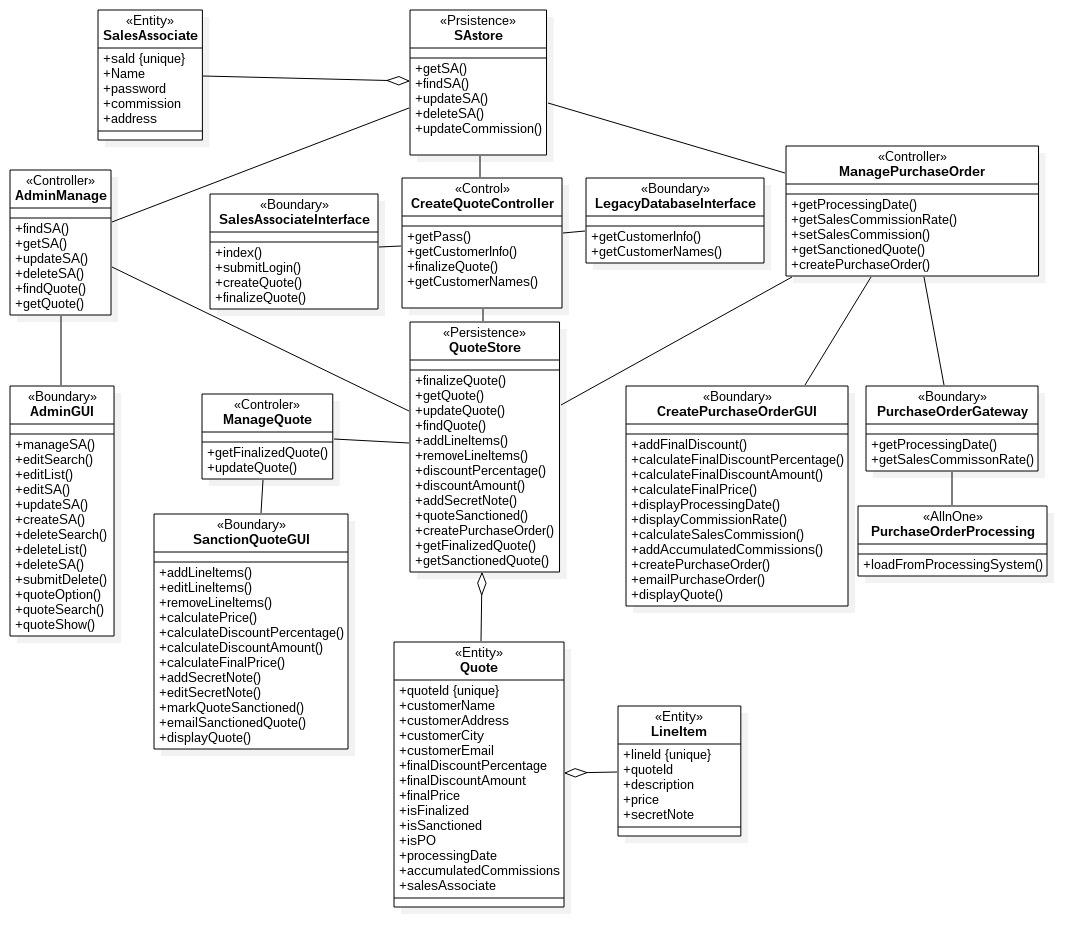
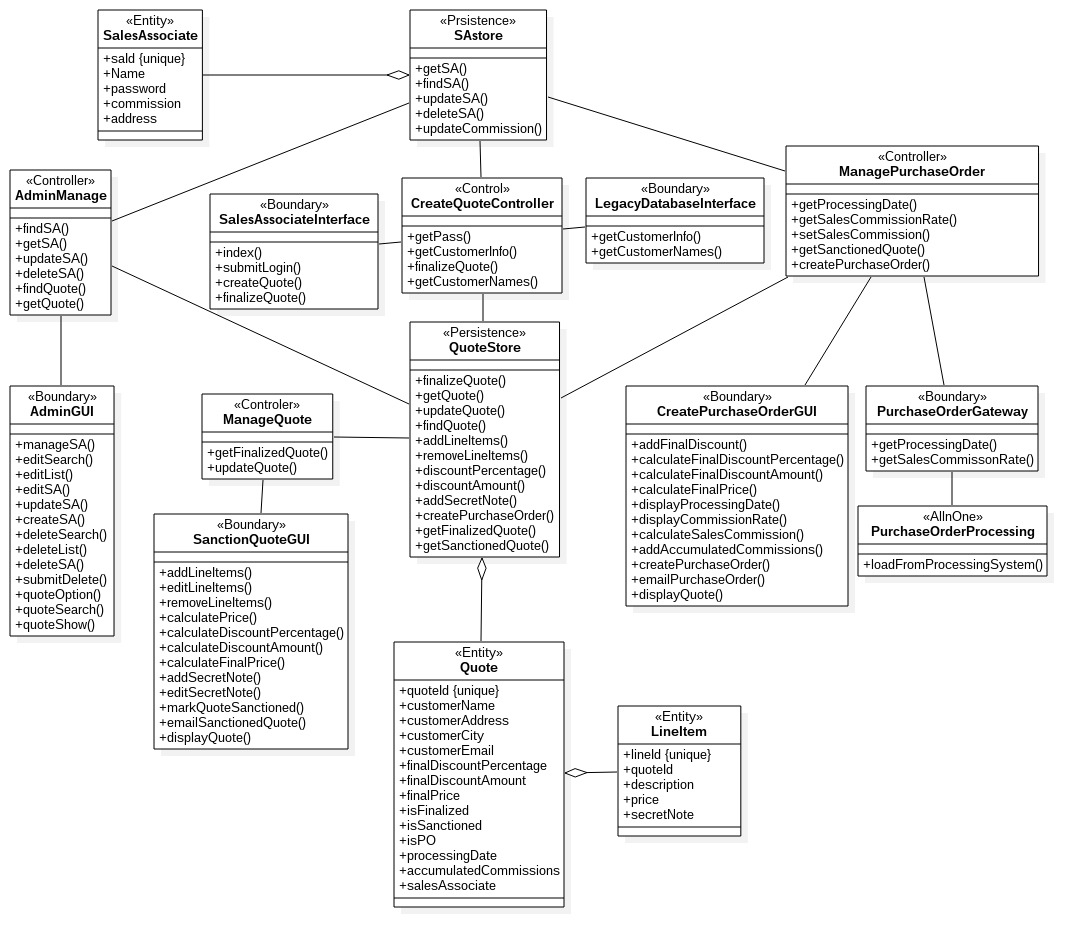
MM's changes

diff --git a/Classes Diagrams/html-docs/contents/element_index.html b/Classes Diagrams/html-docs/contents/element_index.html
@@ -275,7 +275,7 @@
             <section>
                 
                 
-                <h3>UMLOperation (80)</h3>
+                <h3>UMLOperation (79)</h3>
                 <div>
                 
                     <div><a href='9b1eaf3f0c47060a6a05c59b04b4233f.html'><span class='node-icon _icon-UMLOperation'></span>addAccumulatedCommissions</a></div>
@@ -409,8 +409,6 @@
                     <div><a href='3aebdd389ea15dfe6df64cd890e1a742.html'><span class='node-icon _icon-UMLOperation'></span>markQuoteSanctioned</a></div>
                 
                     <div><a href='5ca715880df97b85c9c85cc9964f2cb5.html'><span class='node-icon _icon-UMLOperation'></span>quoteOption</a></div>
-                
-                    <div><a href='8a18c09d3f0b40754075e56bff89356f.html'><span class='node-icon _icon-UMLOperation'></span>quoteSanctioned</a></div>
                 
                     <div><a href='67d31e1c71e0d2416121e646c218ba23.html'><span class='node-icon _icon-UMLOperation'></span>quoteSearch</a></div>
                 

diff --git a/Classes Diagrams/html-docs/contents/navigation.html b/Classes Diagrams/html-docs/contents/navigation.html
@@ -648,17 +648,6 @@
                                             <div style="display: inline-block; white-space: nowrap">
     <span class="node-icon _icon-UMLOperation"></span>
     
-        <a href="8a18c09d3f0b40754075e56bff89356f.html" target="content" style="white-space: nowrap;">quoteSanctioned</a>
-    
-</div>
-                                            
-                                        </li>
-                                        
-                                        
-                                        <li>
-                                            <div style="display: inline-block; white-space: nowrap">
-    <span class="node-icon _icon-UMLOperation"></span>
-    
         <a href="8db08fbd865811cc557c701d530c2c57.html" target="content" style="white-space: nowrap;">createPurchaseOrder</a>
     
 </div>

diff --git a/Classes Diagrams/html-docs/contents/ea0f14c4f0fe992acb87fec3067a6adb.html b/Classes Diagrams/html-docs/contents/ea0f14c4f0fe992acb87fec3067a6adb.html
@@ -204,12 +204,6 @@
                     
                     <tr>
                         <td>public</td>
-                        <td><a href="8a18c09d3f0b40754075e56bff89356f.html">quoteSanctioned()</a></td>
-                        <td></td>
-                    </tr>
-                    
-                    <tr>
-                        <td>public</td>
                         <td><a href="8db08fbd865811cc557c701d530c2c57.html">createPurchaseOrder()</a></td>
                         <td></td>
                     </tr>
